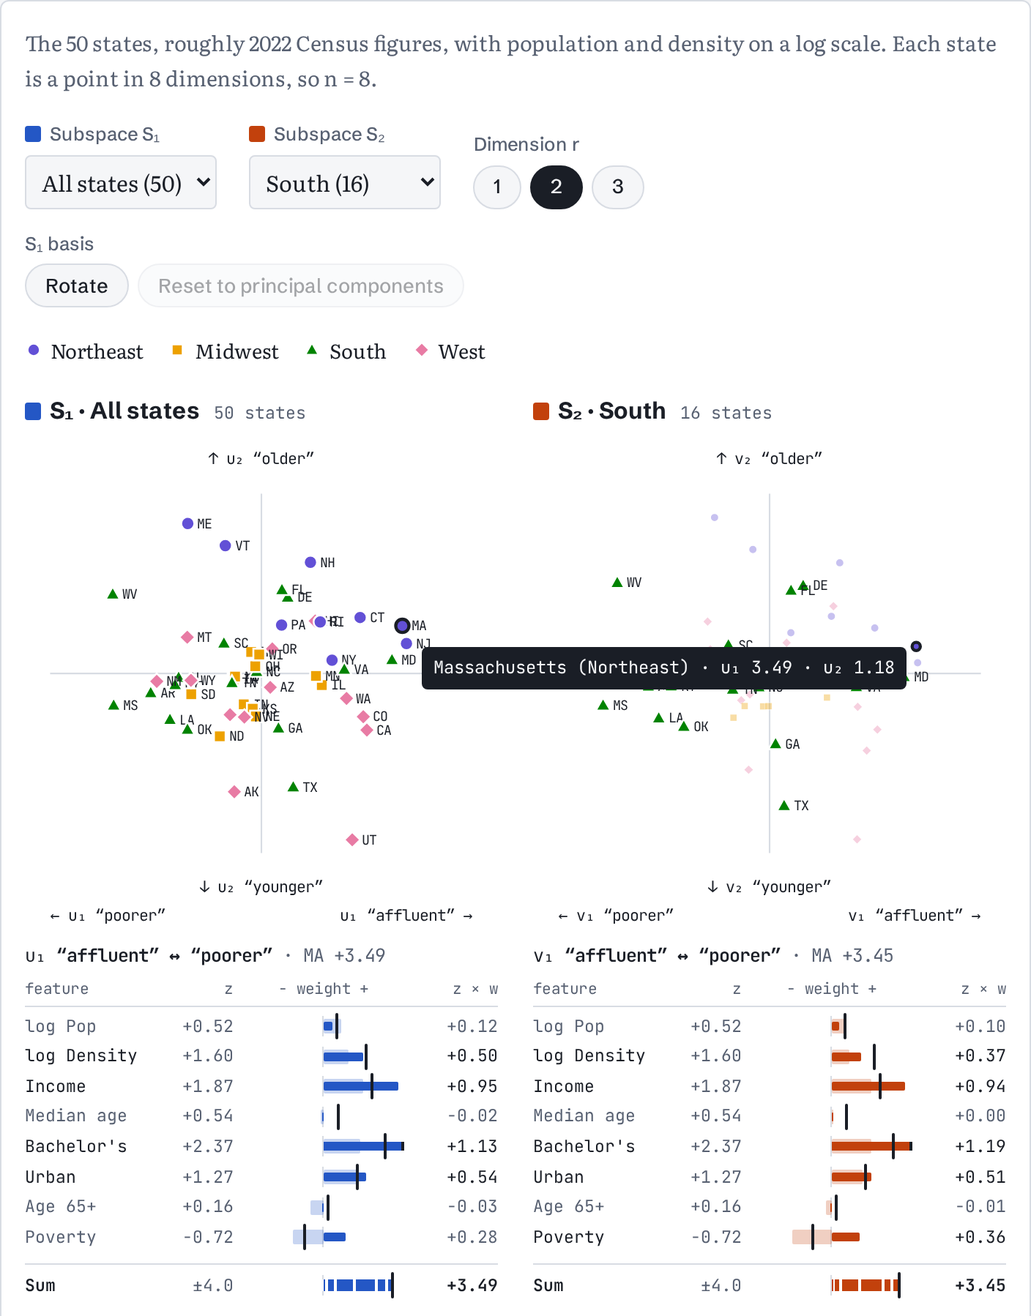
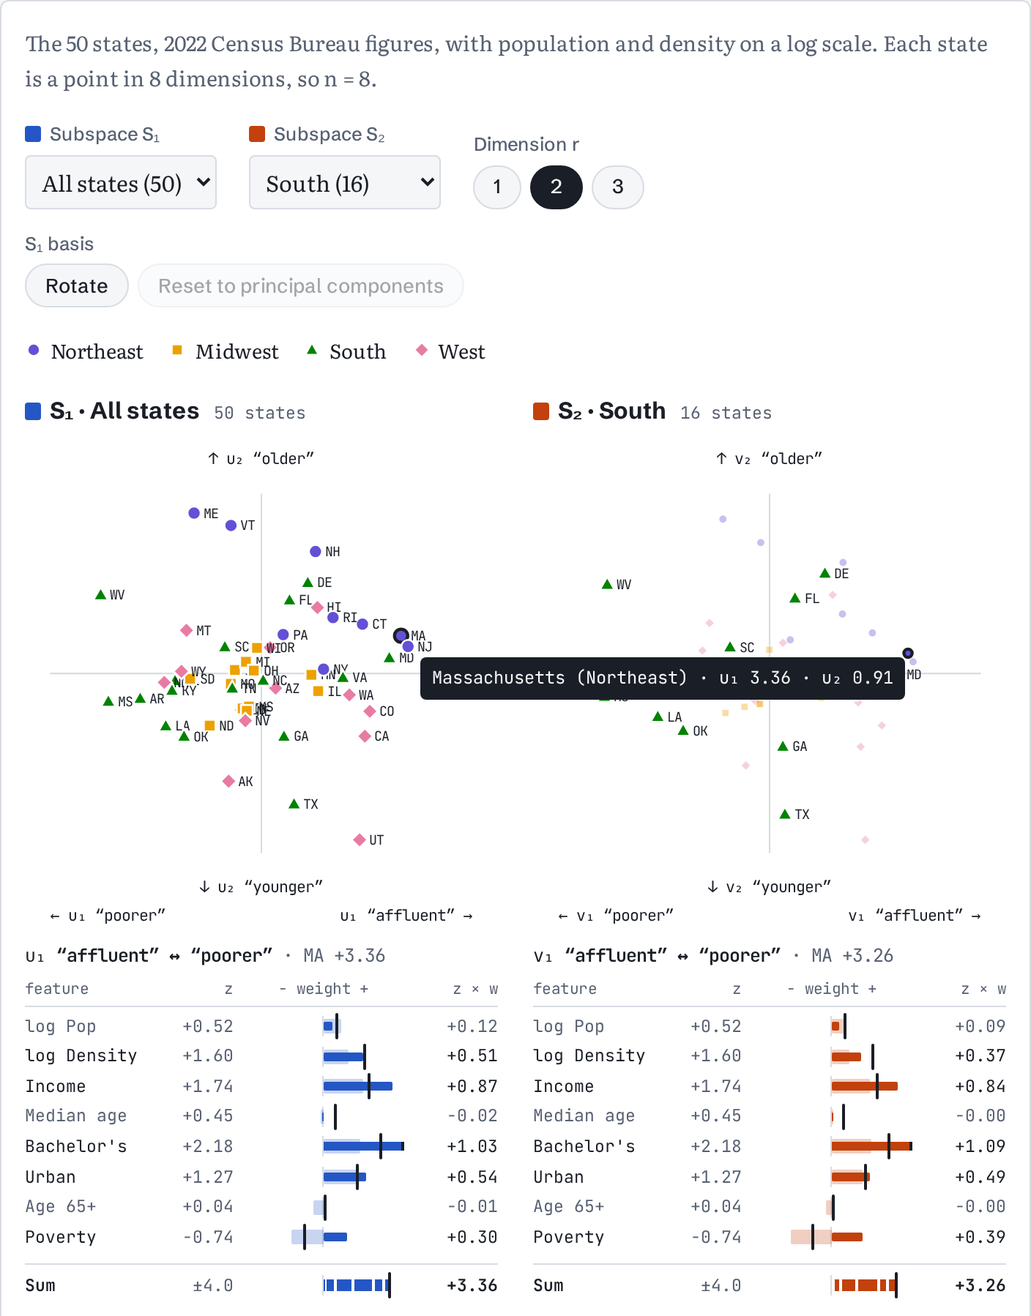
Real Census Bureau data: 2022 ACS 1-year, 2020 urban share, 2022 Gazetteer land area, fetched by scripts/fetch_census.py from the keyless bulk files; write-up and tests updated to the new numbers; components oriented by the sign of their weight sum

diff --git a/index.html b/index.html
@@ -8,7 +8,7 @@
 <link rel="preconnect" href="https://fonts.googleapis.com">
 <link rel="preconnect" href="https://fonts.gstatic.com" crossorigin>
 <link rel="stylesheet" href="https://fonts.googleapis.com/css2?family=Literata:ital,opsz,wght@0,7..72,400;0,7..72,600;1,7..72,400&family=Schibsted+Grotesk:wght@500;700&family=JetBrains+Mono:wght@400;600&display=swap">
-<link rel="stylesheet" href="style.css?v=17">
+<link rel="stylesheet" href="style.css?v=18">
 </head>
 <body>
 <div class="wrap">
@@ -50,7 +50,7 @@
     <div class="cell" id="scorebox"></div>
   </div>
 </section>
-<p class="fine">The figures are approximate, roughly 2022 Census and ACS values typed from memory for illustration. Don't cite them.</p>
+<p class="fine">Data: 2022 American Community Survey 1-year estimates, 2020 Census urban share, 2022 Census Gazetteer land area. <code>scripts/fetch_census.py</code> downloads them from the Census Bureau and writes <code>data/census.csv</code>.</p>
 
 <h2>How to read the tool</h2>
 <p>Each state is a point in 8 dimensions: population and density on a log scale, median household income, median age, share with a bachelor's degree, share urban, share 65 and older, and poverty rate, each z-scored across all 50 states. Each Census region is a group, and its subspace is spanned by its top <span class="m">r</span> principal components.</p>
@@ -91,9 +91,9 @@ overlap = ‖U₁ᵀU₂‖²_F / r = (1² + 0.707²) / 2 = 0.75      (same with
 <table>
   <thead><tr><th>Direction</th><th>Largest weights</th><th>Variance</th><th>Low end</th><th>High end</th></tr></thead>
   <tbody>
-    <tr><td><strong>1. Affluence</strong></td><td class="m">0.51 Income + 0.48 Bachelor's + 0.43 Urban − 0.39 Poverty</td><td class="n">41%</td><td>West Virginia, Mississippi, Arkansas</td><td>New Jersey, Massachusetts, Maryland</td></tr>
-    <tr><td><strong>2. Age</strong></td><td class="m">0.67 Median age + 0.63 Age 65+ + 0.27 log Density</td><td class="n">27%</td><td>Utah, Alaska, Texas</td><td>Maine, Vermont, New Hampshire</td></tr>
-    <tr><td><strong>3. Size</strong></td><td class="m">0.62 log Pop + 0.48 log Density + 0.47 Poverty − 0.25 Income</td><td class="n">21%</td><td>Alaska, North Dakota, Wyoming</td><td>Florida, Louisiana, Texas</td></tr>
+    <tr><td><strong>1. Affluence</strong></td><td class="m">0.50 Income + 0.48 Bachelor's + 0.43 Urban − 0.41 Poverty</td><td class="n">41%</td><td>West Virginia, Mississippi, Arkansas</td><td>New Jersey, Massachusetts, Maryland</td></tr>
+    <tr><td><strong>2. Age</strong></td><td class="m">0.65 Median age + 0.63 Age 65+ + 0.22 log Density − 0.20 Urban</td><td class="n">27%</td><td>Utah, Texas, Alaska</td><td>Maine, Vermont, New Hampshire</td></tr>
+    <tr><td><strong>3. Size</strong></td><td class="m">0.61 log Pop + 0.51 log Density + 0.43 Poverty − 0.26 Income</td><td class="n">20%</td><td>Alaska, North Dakota, Wyoming</td><td>Florida, New York, Louisiana</td></tr>
   </tbody>
 </table>
 </div>
@@ -103,33 +103,33 @@ overlap = ‖U₁ᵀU₂‖²_F / r = (1² + 0.707²) / 2 = 0.75      (same with
 <table>
   <thead><tr><th>Region</th><th>θ₁, θ₂</th><th>Overlap</th><th>Random groups, same size: median</th><th>Percentile</th><th>Spread on affluence, age (nation = 1)</th></tr></thead>
   <tbody>
-    <tr><td><strong>South</strong> (16)</td><td class="n">7°, 19°</td><td class="n">0.94</td><td class="n">0.80</td><td class="n">89%</td><td class="n">1.22, 0.82</td></tr>
-    <tr><td><strong>West</strong> (13)</td><td class="n">14°, 46°</td><td class="n">0.71</td><td class="n">0.77</td><td class="n">37%</td><td class="n">0.97, 1.03</td></tr>
-    <tr><td><strong>Northeast</strong> (9)</td><td class="n">19°, 63°</td><td class="n">0.55</td><td class="n">0.71</td><td class="n">20%</td><td class="n">1.03, 0.64</td></tr>
-    <tr><td><strong>Midwest</strong> (12)</td><td class="n">14°, 69°</td><td class="n">0.54</td><td class="n">0.75</td><td class="n">13%</td><td class="n">0.25, 0.19</td></tr>
+    <tr><td><strong>South</strong> (16)</td><td class="n">9°, 17°</td><td class="n">0.94</td><td class="n">0.82</td><td class="n">89%</td><td class="n">1.28, 0.87</td></tr>
+    <tr><td><strong>West</strong> (13)</td><td class="n">12°, 48°</td><td class="n">0.70</td><td class="n">0.79</td><td class="n">34%</td><td class="n">0.96, 1.00</td></tr>
+    <tr><td><strong>Northeast</strong> (9)</td><td class="n">21°, 56°</td><td class="n">0.59</td><td class="n">0.72</td><td class="n">27%</td><td class="n">0.92, 0.85</td></tr>
+    <tr><td><strong>Midwest</strong> (12)</td><td class="n">13°, 75°</td><td class="n">0.51</td><td class="n">0.77</td><td class="n">8%</td><td class="n">0.23, 0.14</td></tr>
   </tbody>
 </table>
 </div>
 
-<p><strong>The South is the most nationally typical region.</strong> It holds the bottom of the affluence scale (the five lowest states are all Southern) and Maryland near the top, so its spread along that direction is 1.2 times the nation's. It also spans the age direction, from young Texas, Georgia and Oklahoma to old West Virginia, Delaware and Florida. Its top two directions are the national ones, at 7° and 19°. Two checks:</p>
+<p><strong>The South is the most nationally typical region.</strong> It holds the bottom of the affluence scale (four of the five lowest states are Southern, New Mexico the exception) and Maryland near the top, so its spread along that direction is 1.3 times the nation's. It also spans the age direction, from young Texas, Georgia and Oklahoma to old Delaware, West Virginia and Florida. Its top two directions are the national ones, at 9° and 17°. Two checks:</p>
 <ul>
-  <li><strong>Containment.</strong> The South is part of "All states", which pulls the two together. Compared with the other 34 states instead, the South still scores 0.73.</li>
+  <li><strong>Containment.</strong> The South is part of "All states", which pulls the two together. Compared with the other 34 states instead, the South still scores 0.71.</li>
   <li><strong>Size.</strong> The South sits at the 89th percentile of random 16-state groups. That is high, but about one random group in nine does as well, so "typical" is the right word, not "exceptional".</li>
 </ul>
 
-<p><strong>The Midwest is distinct, but not in its directions.</strong> Its overlap with the nation is low, but at the 13th percentile it is not unusual for 12 states. What is unusual is how little it varies along the national directions: a quarter of the nation's spread on affluence and a fifth on age. None of 2,000 random 12-state groups is that compressed on both. Midwestern states are alike in wealth and age, so what is left to vary is size, Ohio and Illinois against the Dakotas, and that becomes the Midwest's top direction.</p>
+<p><strong>The Midwest is distinct, but not in its directions.</strong> Its overlap with the nation is low, but at the 8th percentile it is only borderline unusual for 12 states. What is unusual is how little it varies along the national directions: about a quarter of the nation's spread on affluence and a seventh on age. None of 2,000 random 12-state groups is that compressed on both. Midwestern states are alike in wealth and age, so what is left to vary is size, Ohio and Illinois against the Dakotas, and that becomes the Midwest's top direction.</p>
 <p>This is a limit of the overlap score. It measures which directions a group varies along, not how much. A group can have nearly the national directions with much less variance along them. Checking the spread, or the singular values, catches what the angles miss.</p>
 
-<p><strong>The Northeast's third direction is its own.</strong> At <span class="m">r = 2</span> it is unremarkable (20th percentile). At <span class="m">r = 3</span> its third angle is 83° and its overlap falls to the 2nd percentile. Its top direction is urban against rural, New Jersey and Massachusetts against Maine and Vermont, with the rural states older.</p>
-<p><strong>The West is unremarkable.</strong> Its top direction ties age to wealth (older states like New Mexico and Montana are poorer and smaller than Utah, California and Colorado), which the nation's directions do not. But it sits at the 37th percentile, so this data cannot tell that pattern from chance.</p>
+<p><strong>The Northeast's third direction is its own.</strong> At <span class="m">r = 2</span> it is unremarkable (27th percentile). At <span class="m">r = 3</span> its third angle is 84° and its overlap falls to the 2nd percentile. Its top direction is urban against rural, New Jersey and Massachusetts against Maine and Vermont, with the rural states older.</p>
+<p><strong>The West is unremarkable.</strong> Its top direction ties age to wealth (older states like Montana and New Mexico are poorer and smaller than Utah, California and Colorado), which the nation's directions do not. But it sits at the 34th percentile, so this data cannot tell that pattern from chance.</p>
 
 <p><strong>Two lessons for comparing groups this way.</strong> First, judge each group against random groups of the same size, not just against the floor: the floor ignores how noisy a small group's components are. Second, look at variance as well as angles: two groups can share directions and still differ a lot in how much they vary along them.</p>
 
 <h2>Where this came from</h2>
 <p>This page was written to explain how to compare low-rank adapters trained on different domains. Each adapter's update writes into a subspace, and the same tools apply: principal angles, a random floor and a split-half ceiling. With adapters, <span class="m">n</span> is in the thousands and <span class="m">r</span> is 4 to 8, so the floor <span class="m">r/n</span> is close to zero, and the ceiling from a second training seed matters more than the floor.</p>
 </div>
-<script src="js/subspace.js?v=17"></script>
-<script src="js/states.js?v=17"></script>
-<script src="js/app.js?v=17"></script>
+<script src="js/subspace.js?v=18"></script>
+<script src="js/states.js?v=18"></script>
+<script src="js/app.js?v=18"></script>
 </body>
 </html>

diff --git a/js/states.js b/js/states.js
@@ -1,41 +1,41 @@
 // The 50 US states as points in 8 dimensions, grouped by Census region.
-// Values are approximate (roughly 2022 Census and ACS), typed from memory for illustration; don't cite them.
+// 2022 ACS 1-year estimates, 2020 Census urban share, 2022 Gazetteer land area. The rows are written by scripts/fetch_census.py.
 (function (root) {
   "use strict";
   const STATES = {
       noun: "states",
-      note: "The 50 states, roughly 2022 Census figures, with population and density on a log scale. Each state is a point in 8 dimensions, so n = 8.",
+      note: "The 50 states, 2022 Census Bureau figures, with population and density on a log scale. Each state is a point in 8 dimensions, so n = 8.",
       feats: ["log Pop", "log Density", "Income", "Median age", "Bachelor's", "Urban", "Age 65+", "Poverty"],
       groups: { N: "Northeast", M: "Midwest", S: "South", W: "West", all: "All states" },
       def: ["all", "S"],
       tf: r => [Math.log10(r[0] * 1e6), Math.log10(r[1]), r[2], r[3], r[4], r[5], r[6], r[7]],
       // population (millions), density (/sq mi), median household income ($k), median age, % bachelor's+, % urban, % 65+, % poverty
       rows: [
-        ["Alabama", "S", 5.07, 100, 59.6, 39.6, 27.2, 57.7, 17.6, 15.6], ["Alaska", "W", 0.73, 1.3, 86.4, 35.5, 30.6, 64.9, 13.5, 10.5],
-        ["Arizona", "W", 7.36, 65, 72.6, 38.6, 31.8, 89.3, 18.4, 12.5], ["Arkansas", "S", 3.05, 59, 56.3, 38.5, 25.0, 55.5, 17.8, 16.0],
-        ["California", "W", 39.0, 250, 91.6, 37.6, 36.5, 94.2, 15.2, 12.0], ["Colorado", "W", 5.84, 56, 87.6, 37.5, 44.4, 86.0, 15.1, 9.4],
-        ["Connecticut", "N", 3.62, 745, 88.4, 41.2, 41.9, 86.3, 18.0, 10.0], ["Delaware", "S", 1.02, 520, 79.3, 41.4, 35.0, 82.6, 20.0, 11.1],
-        ["Florida", "S", 22.2, 410, 69.3, 42.7, 32.3, 91.5, 21.6, 12.7], ["Georgia", "S", 10.9, 190, 72.8, 37.6, 33.6, 74.1, 14.9, 13.5],
-        ["Hawaii", "W", 1.44, 225, 92.5, 40.1, 34.7, 86.1, 20.0, 10.2], ["Idaho", "W", 1.94, 23, 70.2, 37.4, 29.9, 69.3, 16.8, 10.9],
-        ["Illinois", "M", 12.6, 228, 78.4, 39.2, 37.0, 86.8, 16.6, 11.8], ["Indiana", "M", 6.83, 190, 67.2, 38.0, 28.4, 70.5, 16.6, 12.3],
-        ["Iowa", "M", 3.20, 57, 70.6, 38.4, 30.7, 63.0, 18.0, 11.1], ["Kansas", "M", 2.94, 36, 69.7, 37.2, 35.1, 69.0, 16.8, 11.3],
-        ["Kentucky", "S", 4.53, 115, 60.2, 39.2, 26.5, 57.6, 17.4, 16.1], ["Louisiana", "S", 4.59, 106, 57.9, 37.7, 26.1, 69.3, 16.9, 18.6],
-        ["Maine", "N", 1.39, 45, 68.3, 45.1, 34.4, 38.7, 22.5, 10.8], ["Maryland", "S", 6.18, 636, 98.5, 39.3, 42.5, 86.9, 16.6, 9.6],
-        ["Massachusetts", "N", 7.00, 900, 96.5, 40.3, 46.6, 91.3, 18.0, 10.4], ["Michigan", "M", 10.0, 178, 68.5, 40.2, 31.7, 73.6, 18.7, 13.1],
-        ["Minnesota", "M", 5.72, 72, 84.3, 38.8, 38.5, 71.9, 17.1, 9.3], ["Mississippi", "S", 2.94, 63, 52.7, 38.3, 23.9, 46.3, 17.1, 19.1],
-        ["Missouri", "M", 6.18, 90, 65.9, 39.1, 31.2, 69.5, 17.9, 12.7], ["Montana", "W", 1.12, 7.7, 67.6, 40.1, 34.0, 53.4, 20.0, 12.1],
-        ["Nebraska", "M", 1.97, 26, 71.7, 37.0, 33.8, 73.0, 16.6, 10.4], ["Nevada", "W", 3.18, 29, 72.3, 38.6, 26.5, 94.1, 17.0, 12.8],
-        ["New Hampshire", "N", 1.40, 157, 90.8, 43.3, 39.6, 58.3, 19.9, 7.2], ["New Jersey", "N", 9.29, 1260, 97.1, 40.1, 42.9, 94.0, 17.1, 9.7],
-        ["New Mexico", "W", 2.11, 17, 58.7, 39.1, 29.1, 74.5, 19.3, 18.4], ["New York", "N", 19.6, 415, 81.4, 39.6, 39.9, 87.4, 17.9, 13.6],
-        ["North Carolina", "S", 10.8, 220, 66.2, 39.2, 34.9, 66.7, 17.4, 13.3], ["North Dakota", "M", 0.78, 11, 73.0, 35.6, 31.4, 61.2, 16.4, 10.6],
-        ["Ohio", "M", 11.8, 288, 66.0, 39.6, 30.8, 77.9, 18.2, 13.3], ["Oklahoma", "S", 4.05, 59, 59.7, 37.0, 27.3, 64.6, 16.4, 15.3],
-        ["Oregon", "W", 4.23, 44, 76.6, 40.1, 35.9, 80.5, 19.2, 12.0], ["Pennsylvania", "N", 13.0, 290, 71.8, 40.9, 34.5, 76.6, 19.6, 11.8],
-        ["Rhode Island", "N", 1.09, 1060, 81.4, 40.4, 37.5, 91.0, 18.6, 11.4], ["South Carolina", "S", 5.37, 178, 64.1, 40.3, 31.5, 67.9, 19.0, 14.0],
-        ["South Dakota", "M", 0.91, 12, 69.5, 37.6, 30.6, 56.7, 18.0, 12.3], ["Tennessee", "S", 7.13, 173, 65.3, 39.0, 30.5, 66.2, 17.2, 13.6],
-        ["Texas", "S", 30.0, 115, 73.0, 35.6, 32.3, 83.7, 13.4, 14.0], ["Utah", "W", 3.38, 41, 89.2, 31.8, 36.0, 89.8, 11.7, 8.6],
-        ["Vermont", "N", 0.65, 70, 74.0, 43.0, 42.0, 35.1, 21.1, 10.4], ["Virginia", "S", 8.68, 220, 87.2, 38.9, 41.0, 75.5, 16.9, 10.0],
-        ["Washington", "W", 7.81, 117, 91.3, 38.2, 38.0, 83.4, 16.2, 9.9], ["West Virginia", "S", 1.77, 73, 55.2, 42.8, 24.1, 44.6, 21.0, 16.7],
-        ["Wisconsin", "M", 5.91, 109, 72.5, 40.0, 32.0, 67.1, 18.2, 10.6], ["Wyoming", "W", 0.58, 6, 70.0, 38.6, 29.2, 64.6, 18.7, 11.0]
+        ["Alabama", "S", 5.074, 100.2, 59.7, 39.6, 28.8, 57.7, 18.0, 16.2], ["Alaska", "W", 0.734, 1.3, 88.1, 35.9, 30.6, 64.9, 13.8, 11.0],
+        ["Arizona", "W", 7.359, 64.8, 74.6, 38.8, 33.0, 89.3, 18.8, 12.5], ["Arkansas", "S", 3.046, 58.6, 55.4, 38.9, 25.4, 55.5, 17.7, 16.8],
+        ["California", "W", 39.029, 250.4, 91.6, 37.9, 37.0, 94.2, 15.8, 12.2], ["Colorado", "W", 5.840, 56.3, 89.3, 37.7, 45.9, 86.0, 15.7, 9.4],
+        ["Connecticut", "N", 3.626, 748.8, 88.4, 40.9, 41.9, 86.3, 18.3, 9.8], ["Delaware", "S", 1.018, 522.6, 82.2, 41.5, 36.5, 82.6, 20.8, 9.4],
+        ["Florida", "S", 22.245, 414.6, 69.3, 42.7, 34.3, 91.5, 21.6, 12.7], ["Georgia", "S", 10.913, 189.1, 72.8, 37.6, 34.7, 74.1, 15.1, 12.7],
+        ["Hawaii", "W", 1.440, 224.2, 92.5, 40.8, 35.4, 86.1, 20.5, 10.2], ["Idaho", "W", 1.939, 23.5, 72.8, 37.5, 32.3, 69.2, 17.0, 10.7],
+        ["Illinois", "M", 12.582, 226.6, 76.7, 39.1, 37.7, 86.9, 17.2, 11.9], ["Indiana", "M", 6.833, 190.7, 66.8, 38.2, 29.6, 71.2, 16.9, 12.6],
+        ["Iowa", "M", 3.201, 57.3, 69.6, 38.9, 32.3, 63.2, 18.4, 11.0], ["Kansas", "M", 2.937, 35.9, 68.9, 37.6, 35.6, 72.3, 17.2, 12.0],
+        ["Kentucky", "S", 4.512, 114.3, 59.3, 39.4, 27.9, 58.7, 17.5, 16.5], ["Louisiana", "S", 4.590, 106.2, 55.4, 38.2, 27.1, 71.5, 17.0, 18.6],
+        ["Maine", "N", 1.385, 44.9, 69.5, 45.1, 36.1, 38.6, 22.6, 10.8], ["Maryland", "S", 6.165, 634.8, 95.0, 39.7, 43.8, 85.6, 16.9, 9.6],
+        ["Massachusetts", "N", 6.982, 895.0, 94.5, 40.3, 46.6, 91.3, 18.0, 10.4], ["Michigan", "M", 10.034, 177.3, 67.0, 40.3, 32.1, 73.5, 18.7, 13.4],
+        ["Minnesota", "M", 5.717, 71.8, 82.3, 39.0, 39.1, 71.9, 17.4, 9.6], ["Mississippi", "S", 2.940, 62.7, 52.7, 38.9, 24.8, 46.3, 17.5, 19.1],
+        ["Missouri", "M", 6.178, 89.9, 64.8, 39.1, 32.2, 69.5, 18.0, 13.2], ["Montana", "W", 1.123, 7.7, 67.6, 40.2, 34.6, 53.4, 20.1, 12.1],
+        ["Nebraska", "M", 1.968, 25.6, 69.6, 37.4, 34.7, 73.0, 17.0, 11.2], ["Nevada", "W", 3.178, 28.9, 72.3, 39.0, 27.0, 94.1, 16.9, 12.5],
+        ["New Hampshire", "N", 1.395, 155.8, 90.0, 43.3, 41.3, 58.3, 20.2, 7.2], ["New Jersey", "N", 9.262, 1259.3, 96.3, 40.4, 43.5, 93.8, 17.4, 9.7],
+        ["New Mexico", "W", 2.113, 17.4, 59.7, 39.4, 30.5, 74.5, 19.2, 17.6], ["New York", "N", 19.677, 417.6, 79.6, 40.0, 40.0, 87.4, 18.1, 14.3],
+        ["North Carolina", "S", 10.699, 220.0, 67.5, 39.2, 35.9, 66.7, 17.4, 12.8], ["North Dakota", "M", 0.779, 11.3, 72.0, 36.2, 31.8, 61.0, 16.7, 11.5],
+        ["Ohio", "M", 11.756, 287.7, 65.7, 39.9, 32.0, 76.3, 18.4, 13.4], ["Oklahoma", "S", 4.020, 58.6, 59.7, 37.1, 28.5, 64.6, 16.5, 15.7],
+        ["Oregon", "W", 4.240, 44.2, 75.7, 40.5, 36.3, 80.5, 19.3, 12.1], ["Pennsylvania", "N", 12.972, 289.9, 71.8, 40.9, 35.1, 76.5, 19.6, 11.8],
+        ["Rhode Island", "N", 1.094, 1057.9, 81.9, 40.7, 39.6, 91.1, 18.8, 10.8], ["South Carolina", "S", 5.283, 175.7, 64.1, 40.5, 32.6, 67.9, 19.1, 14.0],
+        ["South Dakota", "M", 0.910, 12.0, 69.7, 38.5, 31.6, 57.2, 18.2, 12.5], ["Tennessee", "S", 7.051, 171.0, 65.3, 39.2, 31.1, 66.2, 17.3, 13.3],
+        ["Texas", "S", 30.030, 114.9, 72.3, 35.6, 33.9, 83.7, 13.4, 14.0], ["Utah", "W", 3.381, 40.9, 89.2, 32.1, 37.9, 89.8, 11.9, 8.2],
+        ["Vermont", "N", 0.647, 70.2, 74.0, 43.2, 44.2, 35.1, 21.6, 10.4], ["Virginia", "S", 8.684, 219.9, 85.9, 39.0, 42.2, 75.6, 16.8, 10.6],
+        ["Washington", "W", 7.786, 117.2, 91.3, 38.4, 39.5, 83.4, 16.8, 10.0], ["West Virginia", "S", 1.775, 73.8, 54.3, 42.9, 24.8, 44.6, 21.2, 17.9],
+        ["Wisconsin", "M", 5.893, 108.8, 71.0, 40.4, 33.2, 67.1, 18.7, 10.7], ["Wyoming", "W", 0.581, 6.0, 70.0, 39.1, 29.6, 62.0, 18.6, 11.8]
       ]
   };
   STATES.postal = { "Alabama": "AL", "Alaska": "AK", "Arizona": "AZ", "Arkansas": "AR", "California": "CA", "Colorado": "CO",

diff --git a/js/subspace.js b/js/subspace.js
@@ -41,10 +41,10 @@
     return { vals: idx.map(i => a[i][i]), vecs: idx.map(i => V.map(r => r[i])) };
   }
 
+  // A component's sign is arbitrary; pick the one whose weights sum to a positive number, so that similar directions
+  // in different groups point the same way (a weight that is largest by a hair can't flip it).
   function signFix(v) {
-    let k = 0;
-    v.forEach((x, i) => { if (Math.abs(x) > Math.abs(v[k])) k = i; });
-    return v[k] < 0 ? -1 : 1;
+    return v.reduce((t, x) => t + x, 0) < 0 ? -1 : 1;
   }
 
   function pca(Z, r) {

diff --git a/test/subspace.test.js b/test/subspace.test.js
@@ -62,5 +62,5 @@ test("the write-up's headline numbers still hold", () => {
   const top = v => v.map((x, i) => [Math.abs(x), STATES.feats[i]]).sort((a, b) => b[0] - a[0]).slice(0, 3).map(t => t[1]);
   assert.deepEqual(top(nat[0]).sort(), ["Bachelor's", "Income", "Urban"]);
   close(S.compare(nat, S.pca(Z("S"), 2).U).F, 0.94, 0.01);
-  close(S.compare(S.pca(Z("all"), 1).U, S.pca(Z("M"), 1).U).F, 0.14, 0.01);
+  close(S.compare(S.pca(Z("all"), 1).U, S.pca(Z("M"), 1).U).F, 0.17, 0.01);
 });

diff --git a/scripts/fetch_census.py b/scripts/fetch_census.py
@@ -1,0 +1,102 @@
+"""Fetch the 50 states' figures from Census Bureau bulk files and rewrite the rows in js/states.js.
+
+The Census API now wants a key, so this reads the keyless downloads on www2.census.gov instead:
+  2022 ACS 1-year table-based summary file (programs-surveys/acs/summary_file/2022/table-based-SF):
+    B01003 population, B19013 median household income, B01002 median age,
+    B15003 bachelor's degree or higher (25 and over), B01001 share 65 and over, B17001 share below poverty
+  2020 Census state urban and rural population (geo/docs/reference/ua/State_Urban_Rural_Pop_2020_2010.xlsx)
+  2022 Gazetteer counties file: land area (ALAND_SQMI) summed by state, for density = population / land area
+
+Also writes data/census.csv with the unrounded values. Standard library only.
+Usage: python3 scripts/fetch_census.py
+"""
+import csv
+import io
+import re
+import urllib.request
+import zipfile
+from collections import defaultdict
+from pathlib import Path
+
+ROOT = Path(__file__).resolve().parent.parent
+SF = "https://www2.census.gov/programs-surveys/acs/summary_file/2022/table-based-SF/data/1YRData/acsdt1y2022-{}.dat"
+UR = "https://www2.census.gov/geo/docs/reference/ua/State_Urban_Rural_Pop_2020_2010.xlsx"
+GAZ = "https://www2.census.gov/geo/docs/maps-data/data/gazetteer/2022_Gazetteer/2022_Gaz_counties_national.zip"
+
+
+def get(url):
+    with urllib.request.urlopen(url, timeout=120) as r:
+        return r.read()
+
+
+def acs(table):
+    """State rows of one ACS detailed table, keyed by state FIPS: {"01": {"B19013_E001": 59609.0, ...}}."""
+    rows = csv.DictReader(io.StringIO(get(SF.format(table.lower())).decode()), delimiter="|")
+    return {r["GEO_ID"][-2:]: {k: float(v) for k, v in r.items() if "_E" in k}
+            for r in rows if r["GEO_ID"].startswith("0400000US")}
+
+
+def urban():
+    """2020 urban share by state FIPS. Columns: A state FIPS (a shared string), D 2020 total population,
+    E 2020 urban population."""
+    z = zipfile.ZipFile(io.BytesIO(get(UR)))
+    strings = [re.sub(r"<[^>]+>", "", x) for x in re.findall(r"<si>(.*?)</si>", z.read("xl/sharedStrings.xml").decode(), re.S)]
+    out = {}
+    for row in re.findall(r"<row[^>]*>(.*?)</row>", z.read("xl/worksheets/sheet1.xml").decode())[1:]:
+        cells = {}
+        for col, attrs, body in re.findall(r'<c r="([A-Z]+)\d+"([^>]*?)(?:/>|>(.*?)</c>)', row):
+            v = re.search(r"<v>(.*?)</v>", body or "")
+            if v:
+                cells[col] = strings[int(v.group(1))] if 't="s"' in attrs else v.group(1)
+        if re.fullmatch(r"\d{2}", cells.get("A", "")) and cells.get("D") and cells.get("E"):
+            out[cells["A"]] = 100 * float(cells["E"]) / float(cells["D"])
+    return out
+
+
+def main():
+    js = (ROOT / "js/states.js").read_text()
+    postal = dict(re.findall(r'"([A-Za-z ]+)": "([A-Z]{2})"', js))
+    regions = {k: v for k, v in re.findall(r'\["([A-Za-z ]+)", "([NMSW])"', js) if k in postal}
+    assert len(regions) == 50 and len(postal) == 50
+
+    land, fips = defaultdict(float), {}
+    with zipfile.ZipFile(io.BytesIO(get(GAZ))) as z:
+        name = next(n for n in z.namelist() if n.endswith(".txt"))
+        for r in csv.DictReader(io.TextIOWrapper(z.open(name), encoding="latin-1"), delimiter="\t"):
+            r = {k.strip(): v.strip() for k, v in r.items()}
+            land[r["USPS"]] += float(r["ALAND_SQMI"])
+            fips[r["USPS"]] = r["GEOID"][:2]
+
+    pop, inc, age, edu, sex_age, pov = (acs(t) for t in ["B01003", "B19013", "B01002", "B15003", "B01001", "B17001"])
+    urb = urban()
+    out = []
+    for st in sorted(regions):
+        f = fips[postal[st]]
+        p = pop[f]["B01003_E001"]
+        e, a = edu[f], sex_age[f]
+        older = sum(a[f"B01001_E{i:03d}"] for i in list(range(20, 26)) + list(range(44, 50)))
+        out.append({
+            "name": st, "region": regions[st], "pop": p, "land_sqmi": land[postal[st]], "density": p / land[postal[st]],
+            "income": inc[f]["B19013_E001"], "median_age": age[f]["B01002_E001"],
+            "bachelors": 100 * sum(e[f"B15003_E{i:03d}"] for i in range(22, 26)) / e["B15003_E001"],
+            "urban": urb[f], "age65": 100 * older / a["B01001_E001"],
+            "poverty": 100 * pov[f]["B17001_E002"] / pov[f]["B17001_E001"],
+        })
+
+    (ROOT / "data").mkdir(exist_ok=True)
+    with open(ROOT / "data/census.csv", "w", newline="") as fh:
+        w = csv.DictWriter(fh, fieldnames=list(out[0]))
+        w.writeheader()
+        w.writerows(out)
+
+    cells = [f'["{r["name"]}", "{r["region"]}", {r["pop"] / 1e6:.3f}, {r["density"]:.1f}, {r["income"] / 1e3:.1f}, '
+             f'{r["median_age"]:.1f}, {r["bachelors"]:.1f}, {r["urban"]:.1f}, {r["age65"]:.1f}, {r["poverty"]:.1f}]'
+             for r in out]
+    body = ",\n".join("        " + ", ".join(cells[i:i + 2]) for i in range(0, len(cells), 2))
+    js = re.sub(r"rows: \[\n.*?\n      \]", lambda m: "rows: [\n" + body + "\n      ]", js, flags=re.S)
+    (ROOT / "js/states.js").write_text(js)
+    print(f"wrote {len(out)} states")
+
+
+if __name__ == "__main__":
+    main()

diff --git a/README.md b/README.md
@@ -8,6 +8,9 @@ its coordinates come from its z-scores and the basis weights.
 
 [![Screenshot: All states vs the South, Massachusetts hovered](docs/screenshot.png)](https://rrenaud.github.io/state-subspaces/)
 
+Data: 2022 American Community Survey 1-year estimates, 2020 Census urban share and 2022 Gazetteer land area, downloaded
+from the Census Bureau by `scripts/fetch_census.py` (raw values in `data/census.csv`).
+
 ## Run locally
 
 No build step and no dependencies: open `index.html` in a browser.
@@ -15,4 +18,5 @@ No build step and no dependencies: open `index.html` in a browser.
 ```sh
 node --test test/*.test.js   # math checks and the page's headline numbers
 node scripts/report.js       # every number in the write-up
+python3 scripts/fetch_census.py   # re-download the data
 ```
